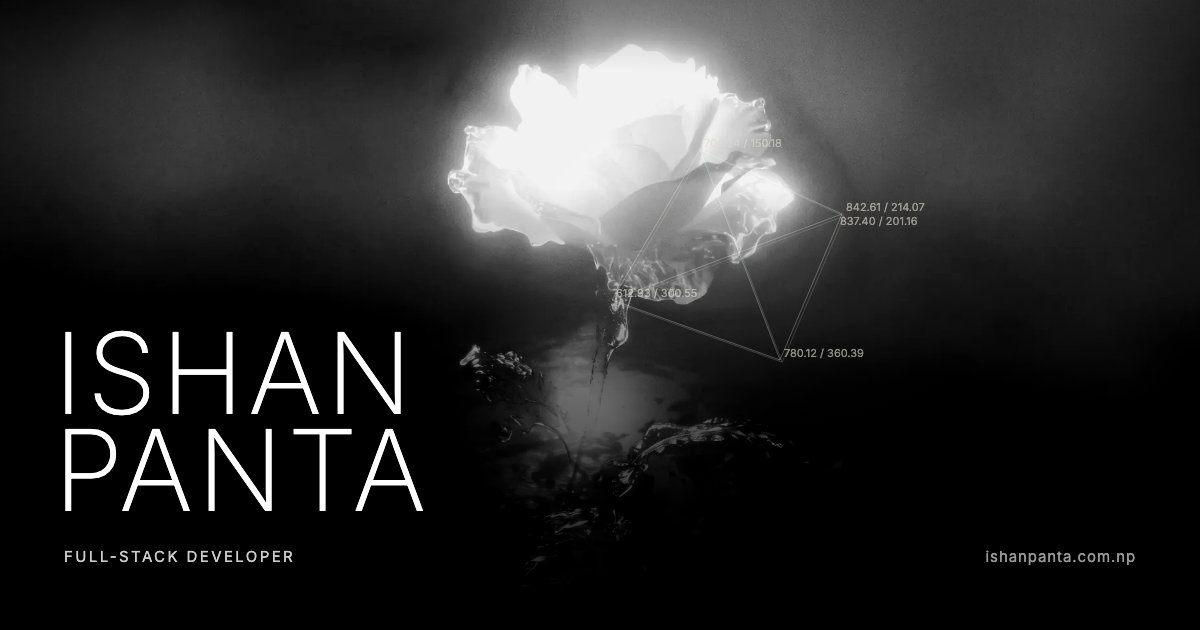
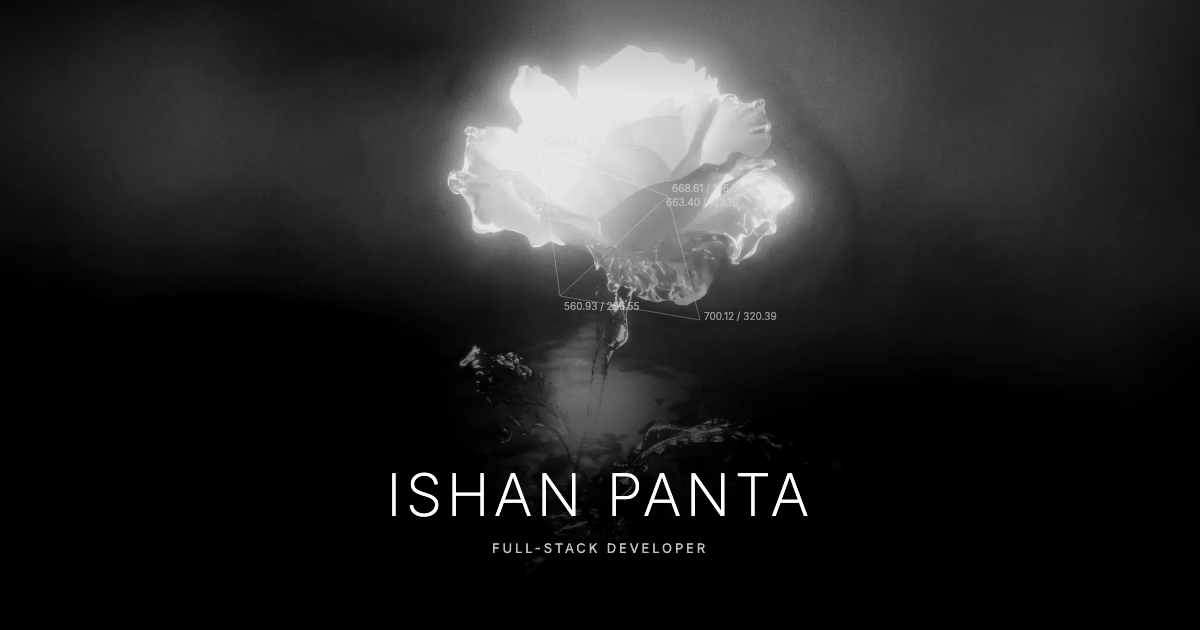
[edit] centred, smaller og image that survives a square crop

diff --git a/src/app/layout.tsx b/src/app/layout.tsx
@@ -8,7 +8,8 @@ const ui = Inter({ subsets: ["latin"], variable: "--font-ui" });
 const DESCRIPTION =
   "Full-stack developer in Kathmandu. I build free, local alternatives to software you should not have to subscribe to.";
 
-const IMAGE = { url: "/og.png", width: 1200, height: 630, alt: "Ishan Panta, full-stack developer" };
+// Bump ?v when og.png changes: link previews cache the image by its URL.
+const IMAGE = { url: "/og.png?v=2", width: 1200, height: 630, alt: "Ishan Panta, full-stack developer" };
 
 export const metadata: Metadata = {
   metadataBase: new URL("https://ishanpanta.com.np"),
